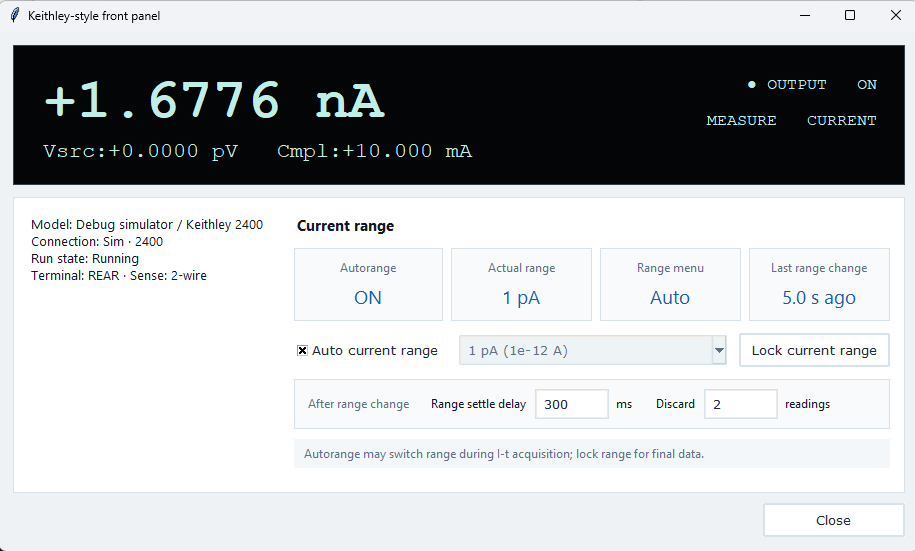
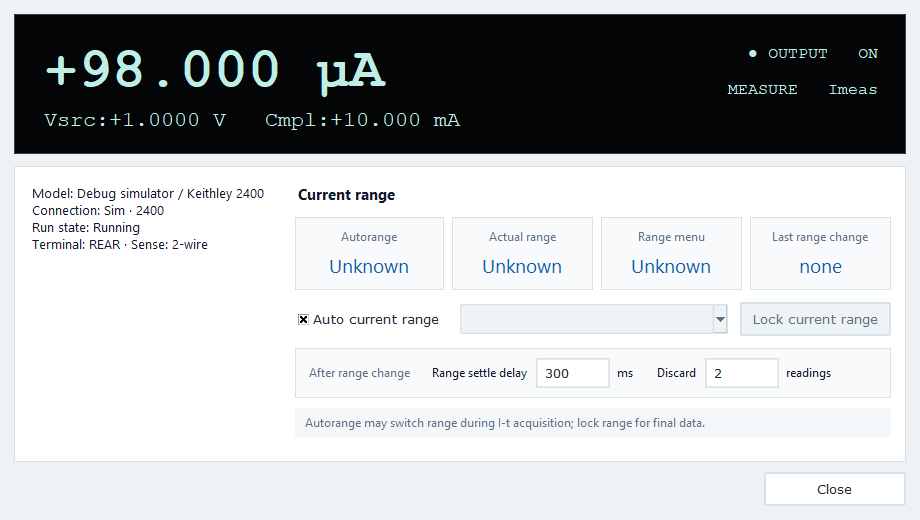
docs: refresh README screenshots

diff --git a/README.md b/README.md
@@ -74,11 +74,23 @@ Before using real hardware, read `docs/HARDWARE_VALIDATION_PROTOCOL.md`. The har
 
 ## Screenshots
 
-![HappyMeasure hardware simulator page](docs/screenshots/happymeasure-hardware.png)
+### HappyMeasure
 
-![HappyMeasure completed simulator sweep](docs/screenshots/happymeasure-sweep-result.png)
+![HappyMeasure 1.1b6 hardware simulator page](docs/screenshots/happymeasure-hardware.png)
 
-![HappyMeasure Keithley-style front-panel popup](docs/screenshots/happymeasure-front-panel-popup.png)
+![HappyMeasure 1.1b6 completed simulator sweep](docs/screenshots/happymeasure-sweep-result.png)
+
+![HappyMeasure 1.1b6 Keithley-style front-panel popup](docs/screenshots/happymeasure-front-panel-popup.png)
+
+### Map Reconstruction
+
+The Map Reconstruction examples use a deterministic synthetic trace for illustration; they are not hardware-validation evidence.
+
+![Map Reconstruction Signal Preparation](docs/screenshots/map-reconstruction-preparation.png)
+
+![Map Reconstruction Reconstruction stage](docs/screenshots/map-reconstruction-reconstruction.png)
+
+![Map Reconstruction Map Analysis stage](docs/screenshots/map-reconstruction-analysis.png)
 
 ## Documentation
 
